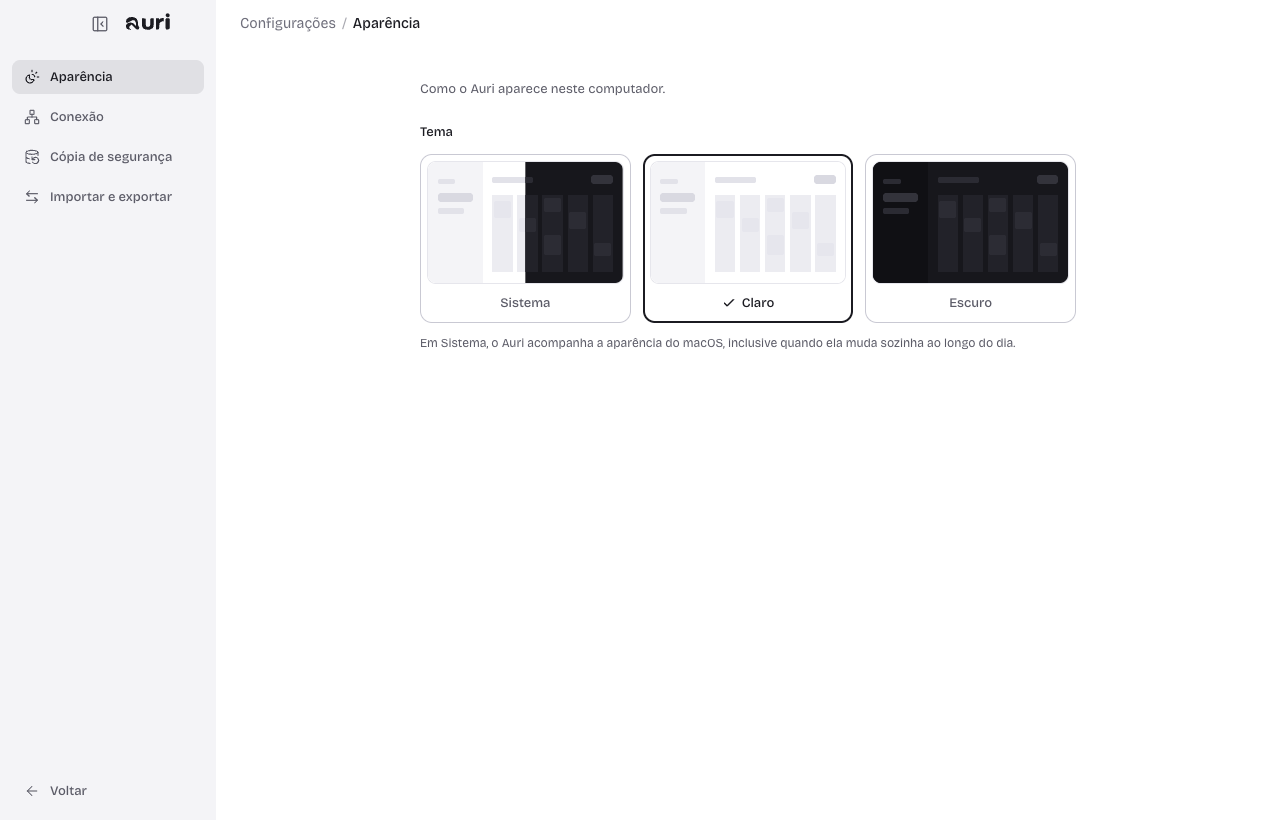
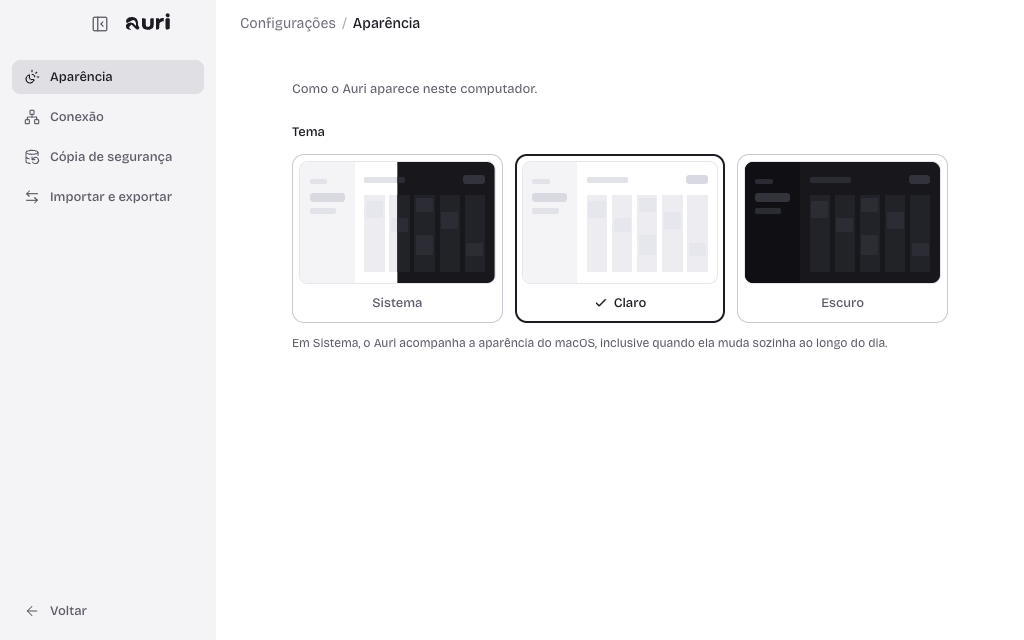
fix(ci): estabiliza capturas e confere versao das releases

diff --git a/docs/qualidade/politica.md b/docs/qualidade/politica.md
@@ -135,7 +135,7 @@ A configuração de formato, lint, testes e cobertura continua em `vite.config.t
   A integração usa o modo compatível com Electron e recusa iframes; isso não substitui uma
   avaliação com VoiceOver/NVDA.
 - As referências PNG por sistema ficam em `visual/`. A data é fixa, as fontes são as do app,
-  a área tem 1280×820 pixels e animações/avisos transitórios são retirados das comparações.
+  a área tem 1024×640 pixels e animações/avisos transitórios são retirados das comparações.
   A troca do tema precisa aparecer no CSS antes da captura. O diff e a razão de pixels alterados
   ficam nos artefatos, com tolerância de 0,1% e comparação de antialiasing.
 - `mutacoes.json` lista erros deliberados nas regras de agenda, CPF, compatibilidade do banco
@@ -147,7 +147,8 @@ A configuração de formato, lint, testes e cobertura continua em `vite.config.t
   No Build de distribuição, o DMG da arquitetura atual é montado somente para leitura,
   ou o NSIS é instalado em pasta temporária no runner descartável; os mesmos testes abrem
   o aplicativo distribuído. O relatório inclui o SHA-256 do instalador.
-- Tags só geram distribuição quando apontam para o HEAD de `main` com Qualidade aprovado
+- Tags precisam corresponder à versão do `package.json` e só geram distribuição quando
+  apontam para o HEAD de `main` com Qualidade aprovado
   naquele push. Build manual continua gerando artefatos para validação, sem publicar release.
 
 ## Revisar referências visuais
@@ -185,3 +186,14 @@ não publica uma versão pública nem afirma que um certificado ad-hoc identific
 Os testes abrem somente a arquitetura nativa do runner; outros alvos gerados precisam de
 execução em hardware correspondente antes de prometer compatibilidade. Performance e avaliação
 manual com leitores de tela continuam tendo evidências próprias.
+
+## Dependências moderadas em 14/10/2026
+
+O audit registra oito entradas moderadas decorrentes do mesmo advisory
+[GHSA-hp3w-g68c-fv3c](https://github.com/advisories/GHSA-hp3w-g68c-fv3c),
+na cadeia `electron-builder → @electron/get → global-agent → roarr → sprintf-js`.
+A versão publicada mais recente de `sprintf-js` é 1.1.3 e o advisory não informa
+versão corrigida. `npm audit fix --dry-run --ignore-scripts` não propõe atualização.
+A cadeia pertence às ferramentas de empacotamento; a inspeção do ASAR deve confirmar
+que essas ferramentas não acompanham o aplicativo. Achados altos/críticos continuam
+bloqueantes e o audit semanal permite reavaliar quando houver correção publicada.
